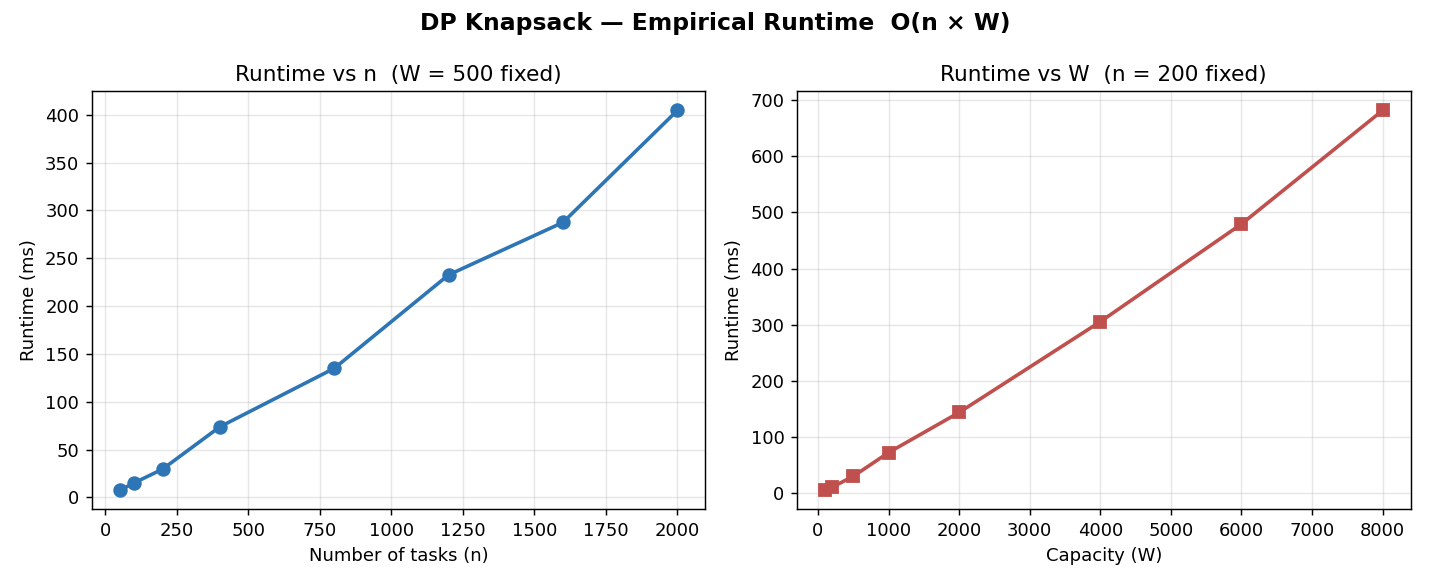
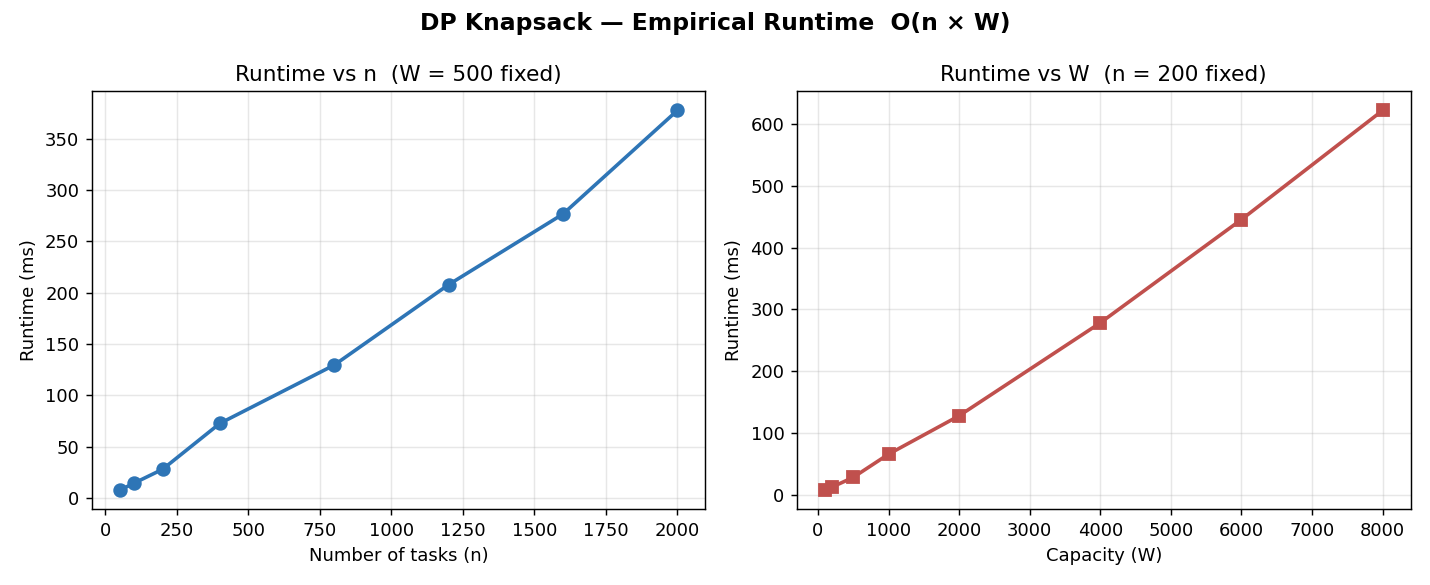
Sync local edits: tidier main.py and refreshed benchmark.png

diff --git a/src/main.py b/src/main.py
@@ -1,24 +1,18 @@
 """
 CLI entry point for Cloud Resource Allocation.
-
 Usage:
     python src/main.py                      # runs built-in demo
     python src/main.py data/tasks.json      # loads tasks from JSON file
 """
-
 import json
 import sys
 from knapsack import Task, allocate, print_table
-
-
 def load_from_file(path: str):
     with open(path) as f:
         data = json.load(f)
     tasks = [Task(t["name"], t["resource"], t["profit"]) for t in data["tasks"]]
     capacity = data["capacity"]
     return tasks, capacity
-
-
 def demo():
     """
     Example scenario:
@@ -35,20 +29,16 @@ def demo():
     ]
     capacity = 10
     return tasks, capacity
-
-
 def main():
     if len(sys.argv) > 1:
         tasks, capacity = load_from_file(sys.argv[1])
     else:
         tasks, capacity = demo()
-
     print("=" * 55)
     print("   CLOUD RESOURCE ALLOCATION — 0/1 KNAPSACK (DP)")
     print("=" * 55)
     print(f"\nAvailable capacity : {capacity} units")
     print(f"Number of tasks    : {len(tasks)}\n")
-
     print(f"{'Task':<18} {'Resource':>10} {'Profit':>8}")
     print("-" * 38)
     for t in tasks:
@@ -56,9 +46,7 @@ def main():
 
     print("\n--- DP Table ---")
     print_table(tasks, capacity)
-
     max_profit, selected = allocate(tasks, capacity)
-
     print("\n--- Optimal Allocation ---")
     total_res = sum(t.resource for t in selected)
     print(f"{'Task':<18} {'Resource':>10} {'Profit':>8}")
@@ -70,7 +58,5 @@ def main():
     print(f"\nMaximum profit : {max_profit}")
     print(f"Resources used : {total_res} / {capacity}")
     print(f"Utilization    : {total_res/capacity*100:.1f}%")
-
-
 if __name__ == "__main__":
     main()